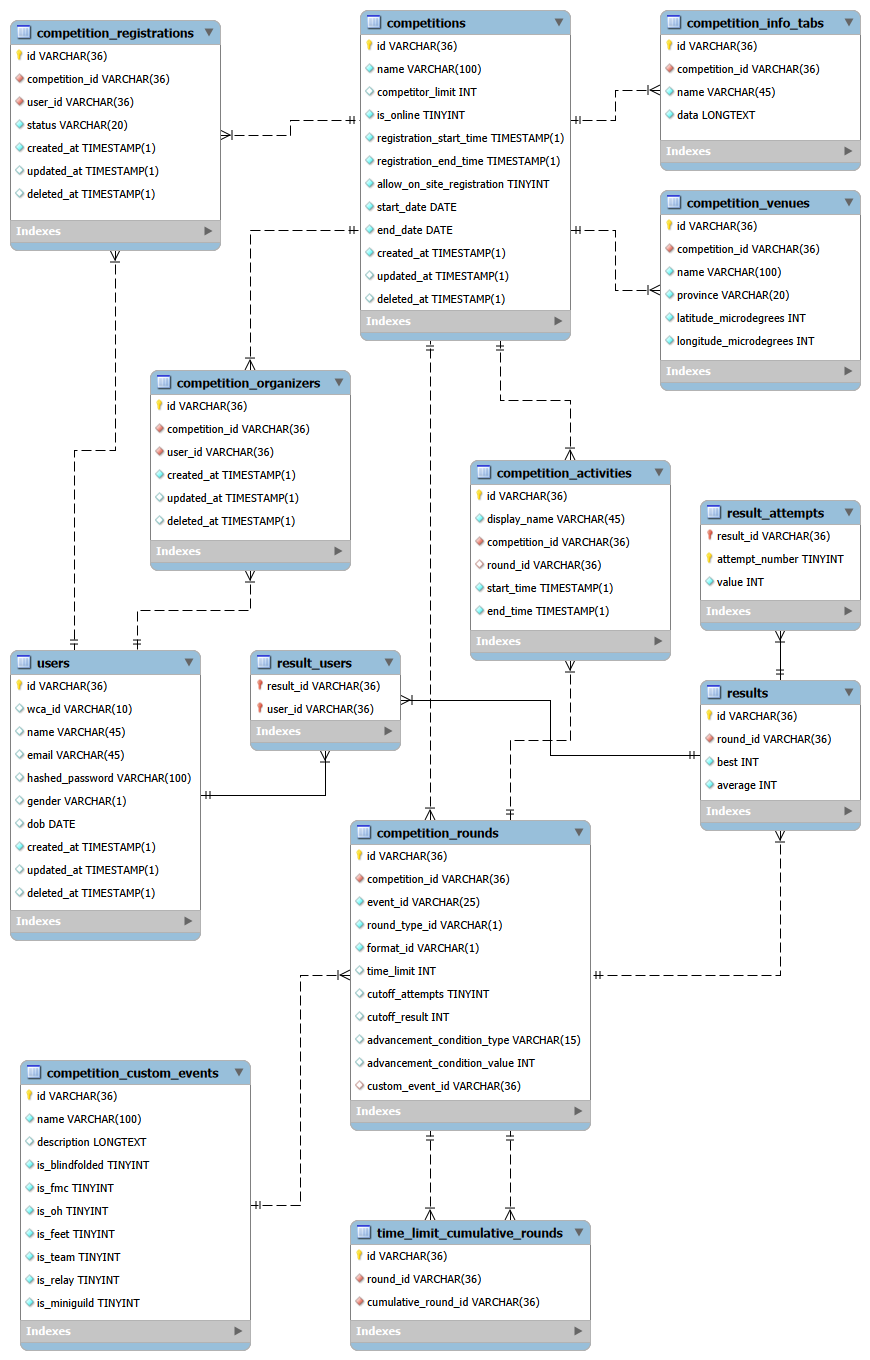
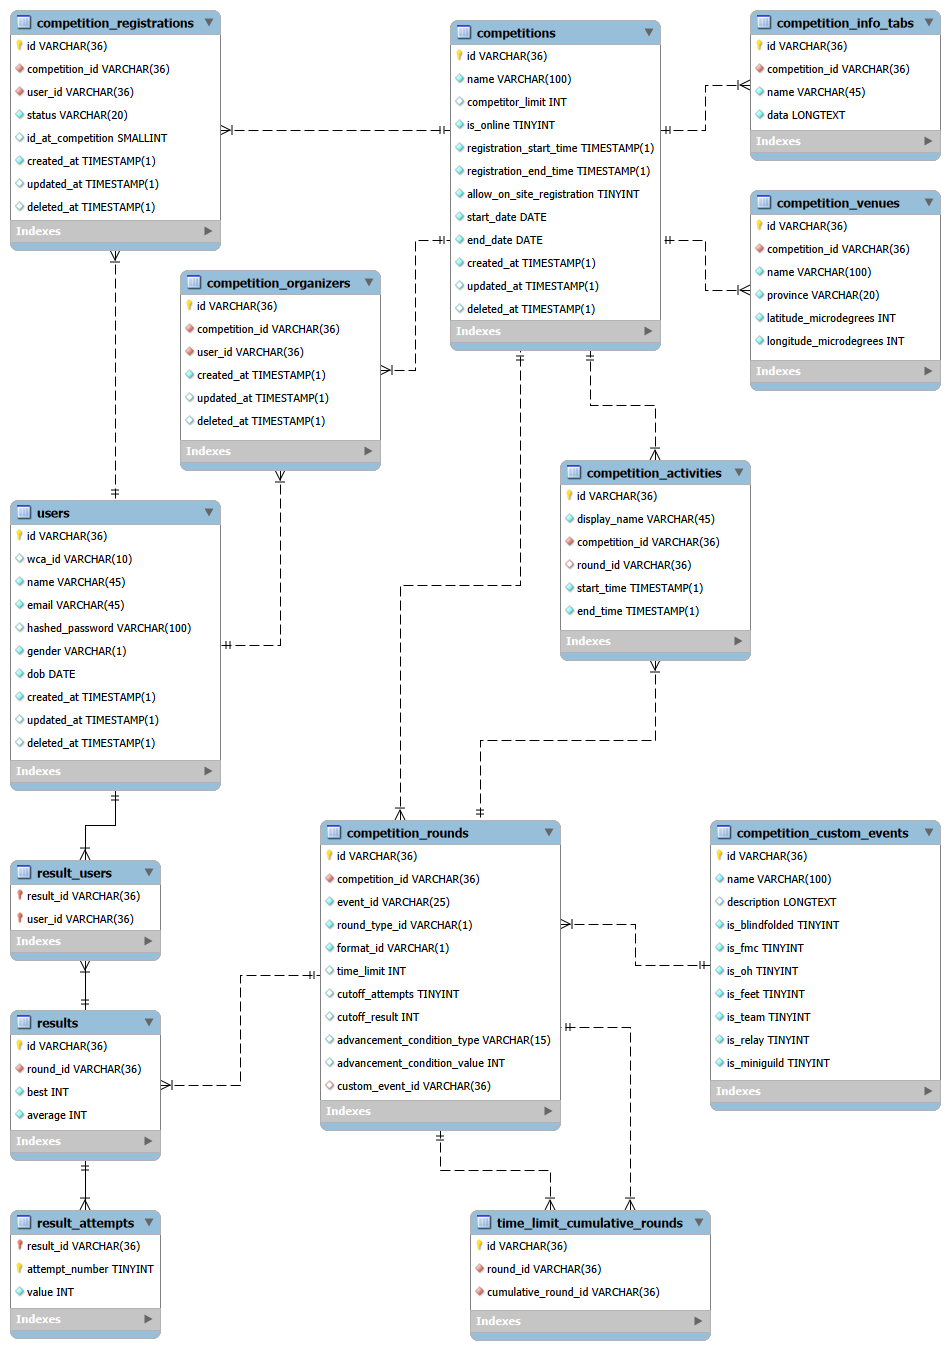
done: models for all modules

diff --git a/backend/competitions/models.py b/backend/competitions/models.py
@@ -1,0 +1,150 @@
+from sqlalchemy import Column, String, Integer, Boolean, Date, TIMESTAMP, ForeignKey, SmallInteger
+from sqlalchemy.sql import func
+from db.database import Base
+from sqlalchemy.orm import relationship
+from sqlalchemy.dialects.mysql import SMALLINT, LONGTEXT
+
+
+class Competition(Base):
+    __tablename__ = "competitions"
+
+    id = Column(String(36), primary_key=True, index=True)
+    name = Column(String(100), nullable=False)
+    competitor_limit = Column(Integer, nullable=True)
+    is_online = Column(Boolean, nullable=False, default=False)
+    registration_start_time = Column(TIMESTAMP(timezone=False), nullable=False)
+    registration_end_time = Column(TIMESTAMP(timezone=False), nullable=False)
+    allow_on_site_registration = Column(Boolean, nullable=False, default=False)
+    start_date = Column(Date, nullable=False)
+    end_date = Column(Date, nullable=False)
+    created_at = Column(TIMESTAMP(timezone=False), nullable=False, server_default=func.now())
+    updated_at = Column(TIMESTAMP(timezone=False), nullable=True, onupdate=func.now())
+    deleted_at = Column(TIMESTAMP(timezone=False), nullable=True)
+
+    rounds = relationship("CompetitionRound", back_populates="competition")
+    activities = relationship("CompetitionActivity", back_populates="competition")
+    info_tabs = relationship("CompetitionInfoTab", back_populates="competition")
+    organizers = relationship("CompetitionOrganizer", back_populates="competition")
+    registrations = relationship("CompetitionRegistration", back_populates="competition")
+    venues = relationship("CompetitionVenue", back_populates="competition")
+
+
+class CompetitionCustomEvent(Base):
+    __tablename__ = "competition_custom_events"
+
+    id = Column(String(36), primary_key=True, index=True)
+    name = Column(String(100), nullable=False)
+    description = Column(LONGTEXT, nullable=True)
+    is_blindfolded = Column(Boolean, nullable=False, default=False)
+    is_fmc = Column(Boolean, nullable=False, default=False)
+    is_oh = Column(Boolean, nullable=False, default=False)
+    is_feet = Column(Boolean, nullable=False, default=False)
+    is_team = Column(Boolean, nullable=False, default=False)
+    is_relay = Column(Boolean, nullable=False, default=False)
+    is_miniguild = Column(Boolean, nullable=False, default=False)
+
+    rounds = relationship("CompetitionRound", back_populates="custom_event")
+
+
+class CompetitionRound(Base):
+    __tablename__ = "competition_rounds"
+
+    id = Column(String(36), primary_key=True, index=True)
+    competition_id = Column(String(36), ForeignKey("competitions.id"), nullable=False)
+    event_id = Column(String(25), nullable=False)
+    round_type_id = Column(String(1), nullable=False)
+    format_id = Column(String(1), nullable=False)
+    time_limit = Column(Integer, nullable=True)
+    cutoff_attempts = Column(Integer, nullable=True)
+    cutoff_result = Column(Integer, nullable=True)
+    advancement_condition_type = Column(String(15), nullable=True)
+    advancement_condition_value = Column(Integer, nullable=True)
+    custom_event_id = Column(String(36), ForeignKey("competition_custom_events.id"), nullable=True)
+
+    competition = relationship("Competition", back_populates="rounds")
+    custom_event = relationship("CompetitionCustomEvent", back_populates="rounds")
+    activities = relationship("CompetitionActivity", back_populates="round")
+    results = relationship("Result", back_populates="round")
+    # this round's entry cumulative rounds
+    cumulative_time_limit_entries = relationship("TimeLimitCumulativeRound", foreign_keys="[TimeLimitCumulativeRound.round_id]", back_populates="owner_round")
+    # this round is included in other rounds' cumulative
+    included_in_cumulative_limits = relationship("TimeLimitCumulativeRound", foreign_keys="[TimeLimitCumulativeRound.cumulative_round_id]", back_populates="included_round")
+
+
+class CompetitionActivity(Base):
+    __tablename__ = "competition_activities"
+
+    id = Column(String(36), primary_key=True, index=True)
+    display_name = Column(String(45), nullable=False)
+    competition_id = Column(String(36), ForeignKey("competitions.id"), nullable=False)
+    round_id = Column(String(36), ForeignKey("competition_rounds.id"), nullable=True)
+    start_time = Column(TIMESTAMP(timezone=False), nullable=False)
+    end_time = Column(TIMESTAMP(timezone=False), nullable=False)
+
+    competition = relationship("Competition", back_populates="activities")
+    round = relationship("CompetitionRound", back_populates="activities")
+
+
+class CompetitionInfoTab(Base):
+    __tablename__ = "competition_info_tabs"
+
+    id = Column(String(36), primary_key=True, index=True)
+    competition_id = Column(String(36), ForeignKey("competitions.id"), nullable=False)
+    name = Column(String(45), nullable=False)
+    data = Column(LONGTEXT, nullable=False)
+
+    competition = relationship("Competition", back_populates="info_tabs")
+
+
+class CompetitionOrganizer(Base):
+    __tablename__ = "competition_organizers"
+
+    id = Column(String(36), primary_key=True, index=True)
+    competition_id = Column(String(36), ForeignKey("competitions.id"), nullable=False)
+    user_id = Column(String(36), ForeignKey("users.id"), nullable=False)
+    created_at = Column(TIMESTAMP(timezone=False), nullable=False, server_default=func.now())
+    updated_at = Column(TIMESTAMP(timezone=False), nullable=True, onupdate=func.now())
+    deleted_at = Column(TIMESTAMP(timezone=False), nullable=True)
+
+    competition = relationship("Competition", back_populates="organizers")
+    user = relationship("User", back_populates="organized_competitions")
+
+
+class CompetitionRegistration(Base):
+    __tablename__ = "competition_registrations"
+
+    id = Column(String(36), primary_key=True, index=True)
+    competition_id = Column(String(36), ForeignKey("competitions.id"), nullable=False)
+    user_id = Column(String(36), ForeignKey("users.id"), nullable=False)
+    status = Column(String(20), nullable=False, default="PENDING")
+    id_at_competition = Column(SMALLINT(unsigned=True), nullable=True)
+    created_at = Column(TIMESTAMP(timezone=False), nullable=False, server_default=func.now())
+    updated_at = Column(TIMESTAMP(timezone=False), nullable=True, onupdate=func.now())
+    deleted_at = Column(TIMESTAMP(timezone=False), nullable=True)
+
+    competition = relationship("Competition", back_populates="registrations")
+    user = relationship("User", back_populates="competition_registrations")
+
+
+class CompetitionVenue(Base):
+    __tablename__ = "competition_venues"
+
+    id = Column(String(36), primary_key=True, index=True)
+    competition_id = Column(String(36), ForeignKey("competitions.id"), nullable=False)
+    name = Column(String(100), nullable=False)
+    province = Column(String(20), nullable=False)
+    latitude_microdegrees = Column(Integer, nullable=False)
+    longitude_microdegrees = Column(Integer, nullable=False)
+
+    competition = relationship("Competition", back_populates="venues")
+
+
+class TimeLimitCumulativeRound(Base):
+    __tablename__ = "time_limit_cumulative_rounds"
+
+    id = Column(String(36), primary_key=True, index=True)
+    round_id = Column(String(36), ForeignKey("competition_rounds.id"), nullable=False)
+    cumulative_round_id = Column(String(36), ForeignKey("competition_rounds.id"), nullable=False)
+
+    owner_round = relationship("CompetitionRound", foreign_keys=[round_id], back_populates="cumulative_time_limit_entries")
+    included_round = relationship("CompetitionRound", foreign_keys=[cumulative_round_id], back_populates="included_in_cumulative_limits")

diff --git a/backend/results/models.py b/backend/results/models.py
@@ -1,0 +1,37 @@
+from sqlalchemy import Column, String, Integer, ForeignKey
+from sqlalchemy.orm import relationship
+from db.database import Base
+from sqlalchemy.dialects.mysql import TINYINT
+
+
+class Result(Base):
+    __tablename__ = "results"
+
+    id = Column(String(36), primary_key=True, index=True)
+    round_id = Column(String(36), ForeignKey("competition_rounds.id"), nullable=False)
+    best = Column(Integer, nullable=False)
+    average = Column(Integer, nullable=False)
+
+    round = relationship("CompetitionRound", back_populates="results")
+    attempts = relationship("ResultAttempt", back_populates="result", cascade="all, delete-orphan")
+    result_users = relationship("ResultUser", back_populates="result", cascade="all, delete-orphan")
+
+
+class ResultAttempt(Base):
+    __tablename__ = "result_attempts"
+
+    result_id = Column(String(36), ForeignKey("results.id"), primary_key=True)
+    attempt_number = Column(TINYINT(unsigned=True), primary_key=True)
+    value = Column(Integer, nullable=False)
+
+    result = relationship("Result", back_populates="attempts")
+
+
+class ResultUser(Base):
+    __tablename__ = "result_users"
+
+    result_id = Column(String(36), ForeignKey("results.id"), primary_key=True)
+    user_id = Column(String(36), ForeignKey("users.id"), primary_key=True)
+
+    result = relationship("Result", back_populates="result_users")
+    user = relationship("User", back_populates="result_users")

diff --git a/backend/users/models.py b/backend/users/models.py
@@ -6,15 +6,17 @@ from sqlalchemy.orm import relationship
 class User(Base):
     __tablename__ = "users"
 
-    id = Column(String, primary_key=True, index=True)
-    wca_id = Column(String)
-    name = Column(String)
-    email = Column(String, index=True)
-    hashed_password = Column(String)
-    gender = Column(String)
-    dob = Column(Date)
+    id = Column(String(36), primary_key=True, index=True)
+    wca_id = Column(String(10), nullable=True)
+    name = Column(String(45), nullable=False)
+    email = Column(String(45), nullable=False)
+    hashed_password = Column(String(100))
+    gender = Column(String(1), nullable=False)
+    dob = Column(Date, nullable=False)
     created_at = Column(TIMESTAMP, nullable=False, server_default=func.now())
     updated_at = Column(TIMESTAMP, nullable=True)
     deleted_at = Column(TIMESTAMP, nullable=True)
 
-    # relationships
+    organized_competitions = relationship("CompetitionOrganizer", back_populates="user")
+    competition_registrations = relationship("CompetitionRegistration", back_populates="user")
+    result_users = relationship("ResultUser", back_populates="user", cascade="all, delete-orphan")

diff --git a/backend/bases/__init__.py b/backend/bases/__init__.py
@@ -1,2 +1,8 @@
 # import all models from all modules/packages here
 from users.models import User
+from competitions.models import (
+    Competition, CompetitionActivity, CompetitionCustomEvent,
+    CompetitionInfoTab, CompetitionRound, CompetitionOrganizer,
+    CompetitionRegistration, CompetitionVenue, TimeLimitCumulativeRound
+)
+from results.models import Result, ResultAttempt, ResultUser